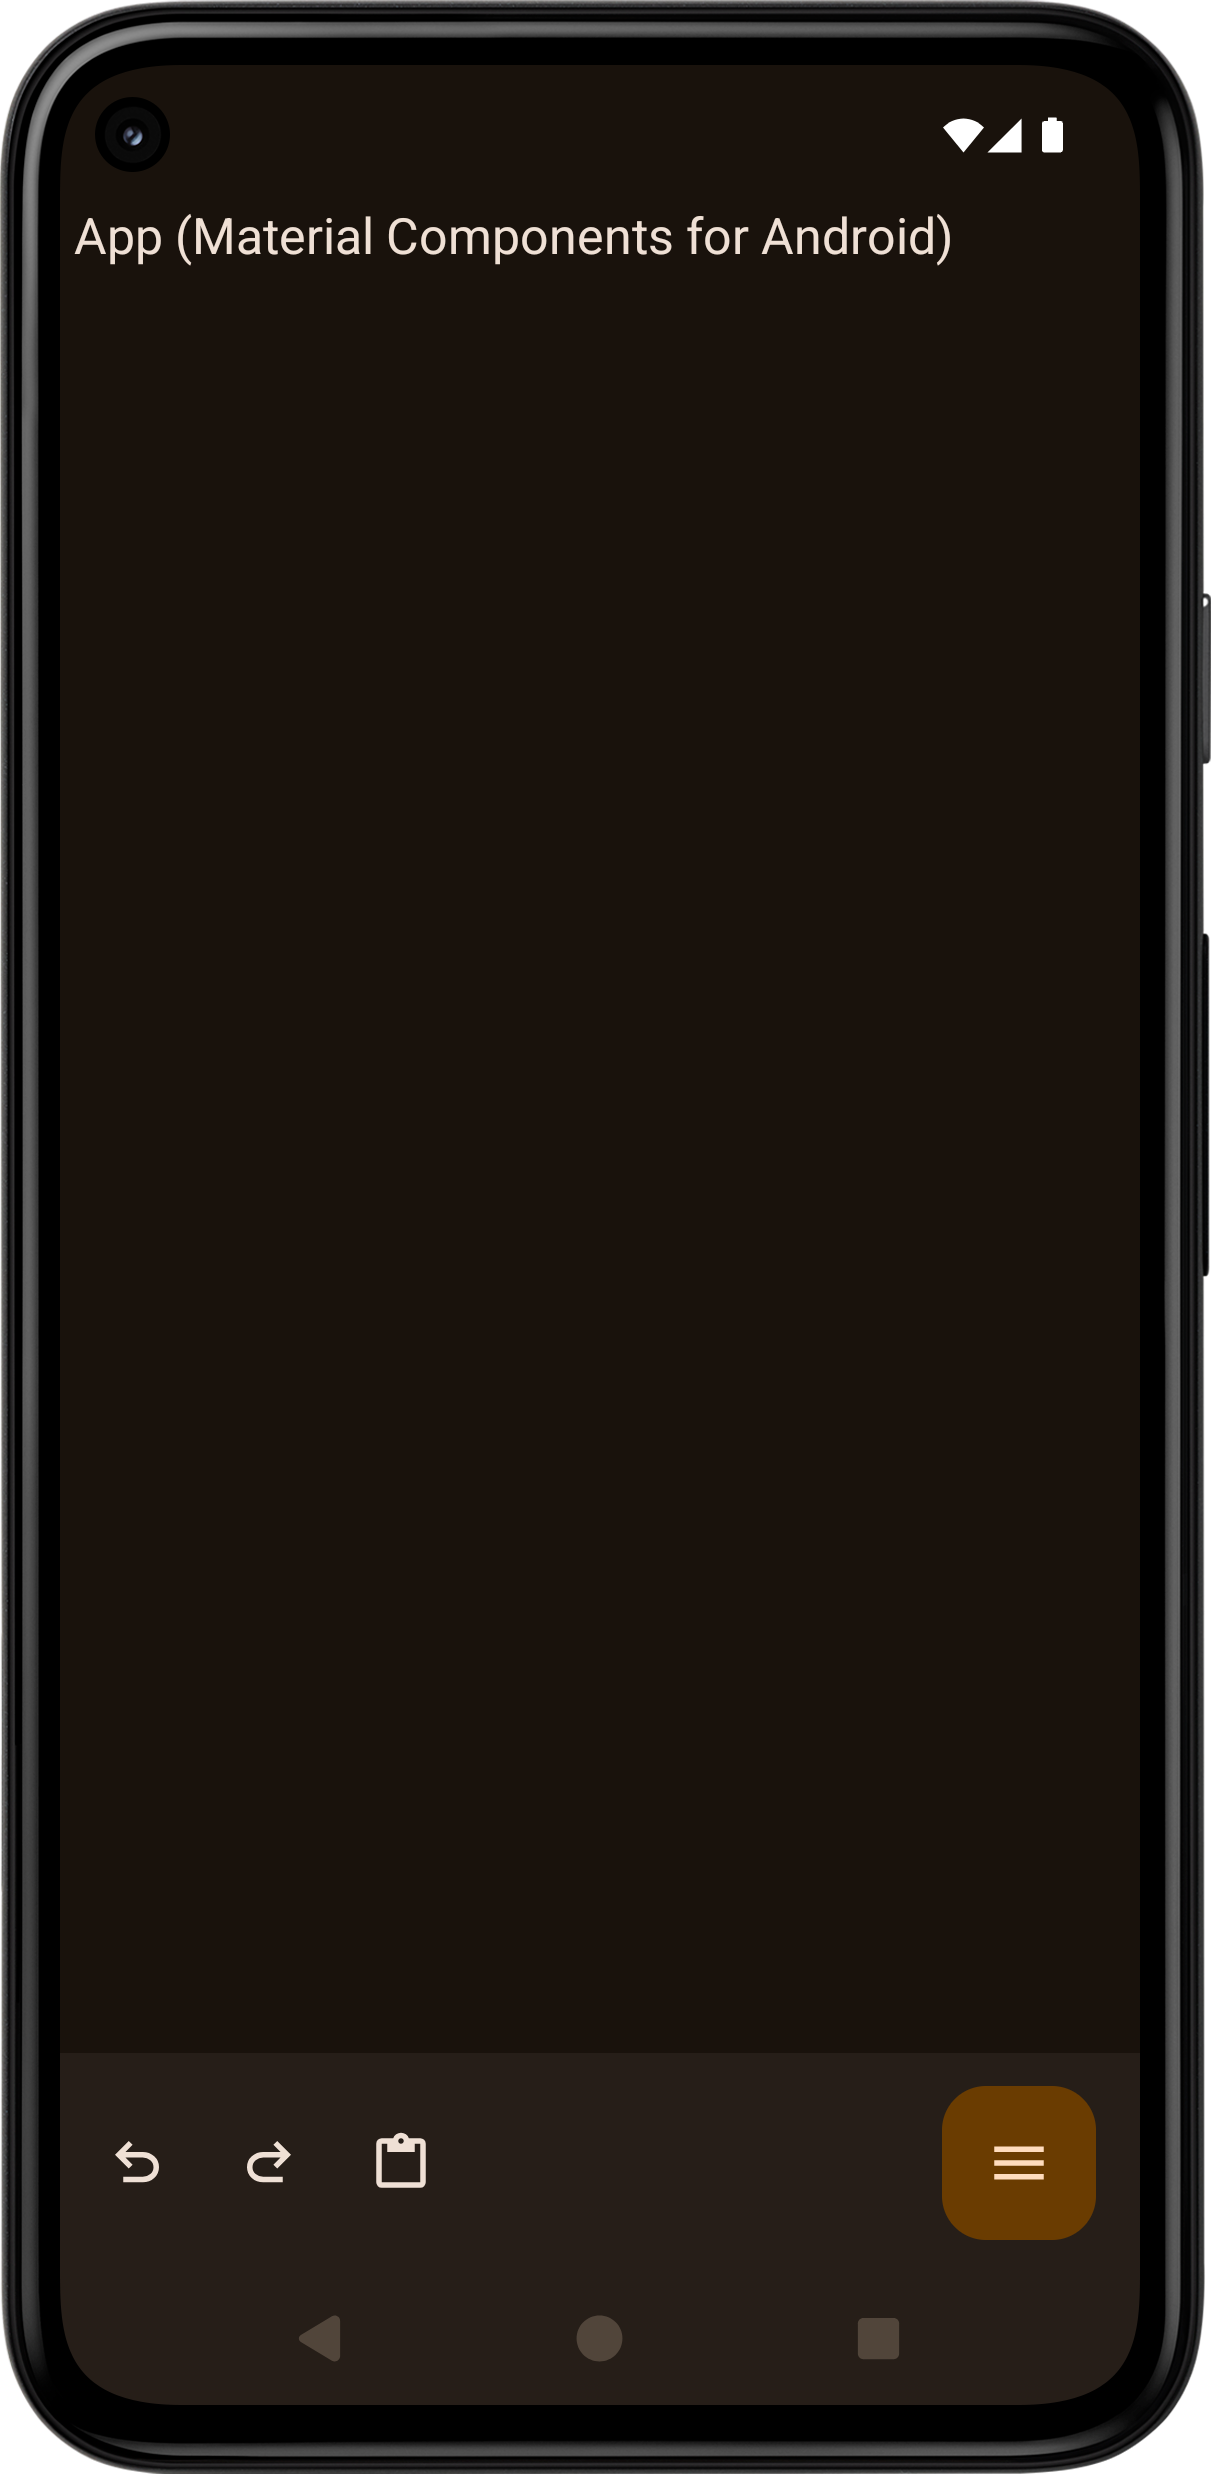
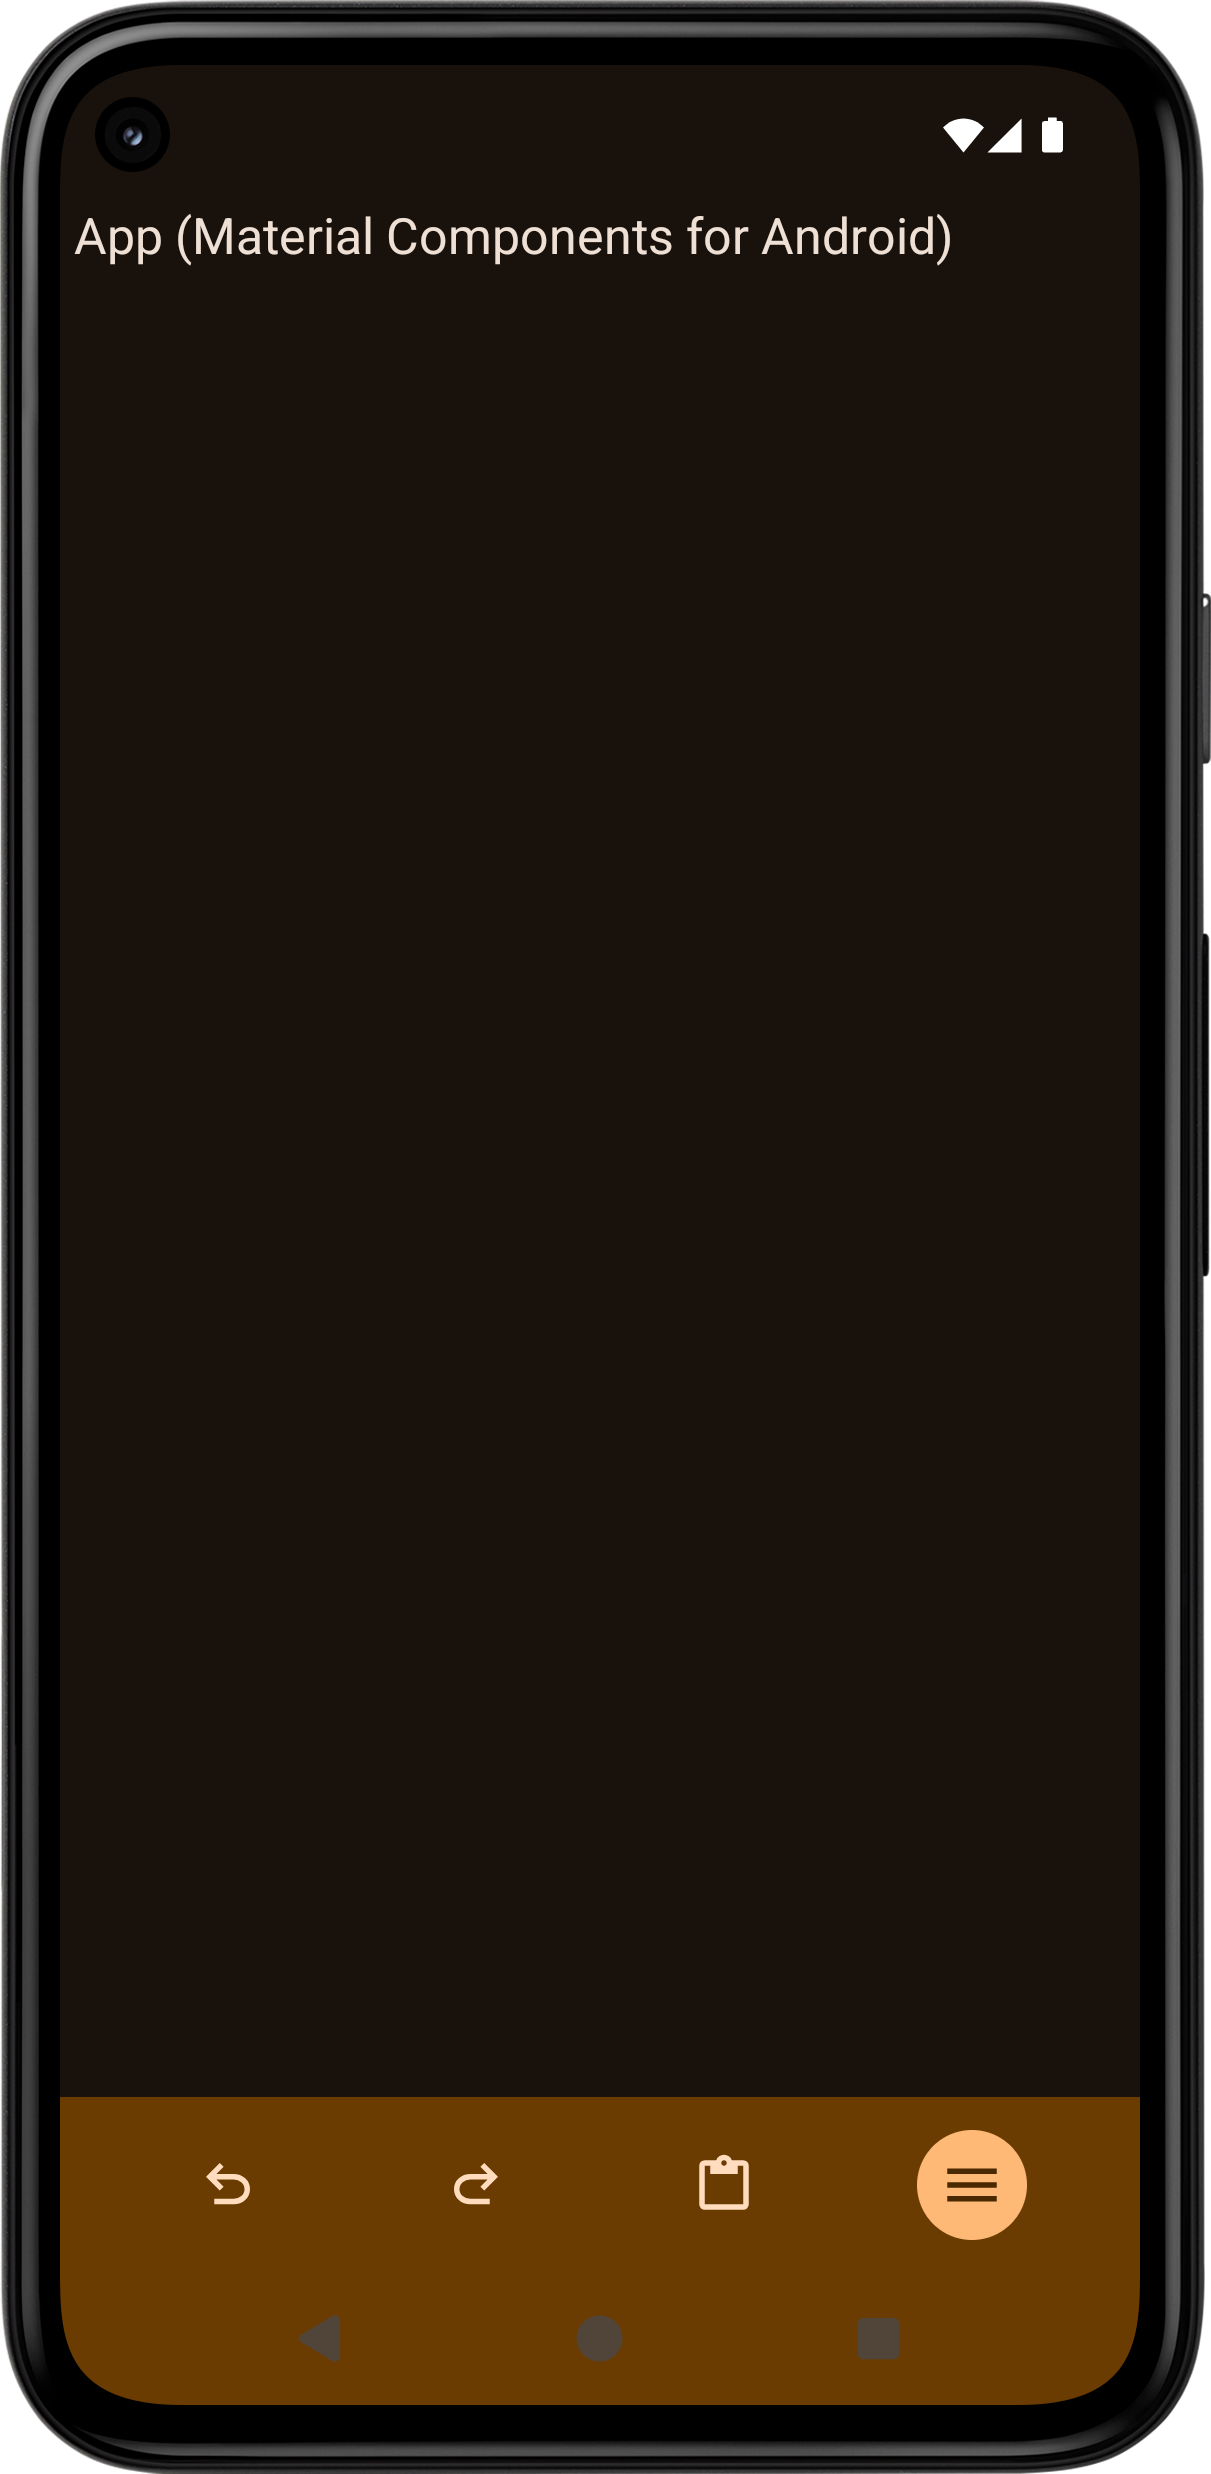
Update

Changed region(s): [[0.0306, 0.8403, 0.9472, 0.996]]

diff --git a/editork/src/main/java/com/github/manabu_nakamura/editor/MainActivity.kt b/editork/src/main/java/com/github/manabu_nakamura/editor/MainActivity.kt
@@ -46,6 +46,7 @@ import com.github.manabu_nakamura.editor.databinding.SheetBinding
 import com.google.android.material.bottomsheet.BottomSheetBehavior
 import com.google.android.material.bottomsheet.BottomSheetDialog
 import com.google.android.material.bottomsheet.BottomSheetDialogFragment
+import com.google.android.material.color.DynamicColors
 import com.google.android.material.dialog.MaterialAlertDialogBuilder
 
 import java.io.BufferedReader
@@ -64,12 +65,12 @@ class MainActivity : AppCompatActivity() {
     override fun onCreate(savedInstanceState: Bundle?) {
         AppCompatDelegate.setDefaultNightMode(THEMES[PreferenceManager.getDefaultSharedPreferences(this).getInt("theme", 2)])
         super.onCreate(savedInstanceState)
+        DynamicColors.applyToActivityIfAvailable(this)
         enableEdgeToEdge()
         if (Build.VERSION.SDK_INT >= Build.VERSION_CODES.Q) {
             window.isNavigationBarContrastEnforced = false
         }
         setContentView(binding.root)
-        setSupportActionBar(binding.appBar)
         binding.editText.requestFocus()
     }
 
